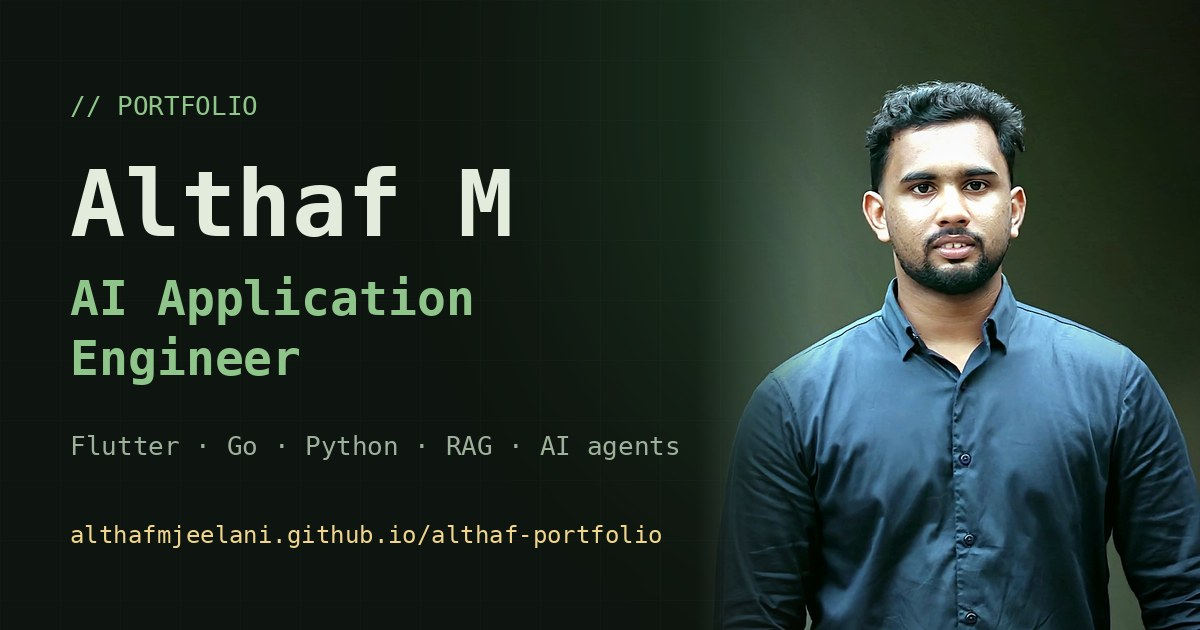
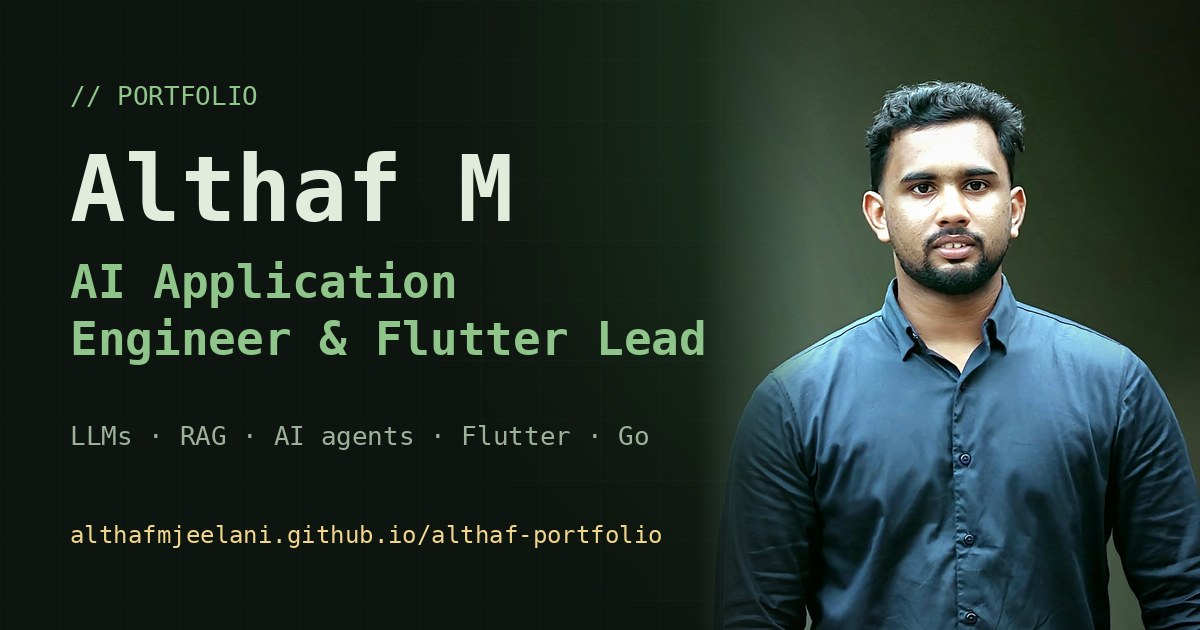
feat(site): retitle as AI Application Engineer & Flutter Lead with new summary
Claude-Session: https://claude.ai/code/session_012Xn4Q7hUZq6czKaUf6FZZm

diff --git a/site/index.html b/site/index.html
@@ -3,8 +3,8 @@
 <head>
 <meta charset="utf-8">
 <meta name="viewport" content="width=device-width, initial-scale=1, viewport-fit=cover">
-<title>Althaf M · AI Application Engineer</title>
-<meta name="description" content="Althaf M — AI application engineer with a Flutter and mobile background, at Texol World. Apps, backend, data, cloud and AI.">
+<title>Althaf M · AI Application Engineer &amp; Flutter Lead</title>
+<meta name="description" content="Althaf M — AI Application Engineer &amp; Flutter Lead with 4+ years of experience, specializing in cross-platform apps and integrating LLMs to build intelligent products.">
 <link rel="preconnect" href="https://fonts.googleapis.com">
 <link rel="preconnect" href="https://fonts.gstatic.com" crossorigin>
 <link rel="stylesheet" href="https://fonts.googleapis.com/css2?family=Martian+Mono:wdth,wght@87.5..112.5,300..800&family=Instrument+Sans:wght@400;500;600;700&family=JetBrains+Mono:wght@400;500;700&display=swap">
@@ -585,14 +585,14 @@ dialog.sheet[open]{animation:pop .35s cubic-bezier(.2,.7,.1,1)}
 <meta property="og:locale" content="en_IN">
 <meta property="og:image:width" content="1200">
 <meta property="og:image:height" content="630">
-<meta property="og:image:alt" content="Althaf M, AI application engineer">
-<meta name="twitter:title" content="Althaf M · AI Application Engineer">
-<meta name="twitter:description" content="AI application engineer with a Flutter and mobile background. Apps, backend, data, cloud and AI, at Texol World, Kozhikode.">
-<meta name="twitter:image" content="https://althafmjeelani.github.io/althaf-portfolio/assets/images/og.jpg?v=2">
+<meta property="og:image:alt" content="Althaf M, AI Application Engineer and Flutter Lead">
+<meta name="twitter:title" content="Althaf M · AI Application Engineer &amp; Flutter Lead">
+<meta name="twitter:description" content="4+ years of experience, specializing in cross-platform apps and integrating LLMs to build intelligent products. Texol World, Kozhikode.">
+<meta name="twitter:image" content="https://althafmjeelani.github.io/althaf-portfolio/assets/images/og.jpg?v=3">
 <link rel="manifest" href="manifest.webmanifest">
 <meta name="theme-color" media="(prefers-color-scheme: dark)" content="#0E140F">
 <link rel="preload" as="image" href="assets/images/profile.jpg?v=2">
-<script type="application/ld+json">{"@context": "https://schema.org", "@graph": [{"@type": "Person", "@id": "https://althafmjeelani.github.io/althaf-portfolio/#me", "name": "Althaf M", "jobTitle": "AI Application Engineer", "url": "https://althafmjeelani.github.io/althaf-portfolio/", "image": "https://althafmjeelani.github.io/althaf-portfolio/assets/images/profile.jpg", "email": "mailto:althafmdev@gmail.com", "address": {"@type": "PostalAddress", "addressLocality": "Kozhikode", "addressRegion": "Kerala", "addressCountry": "IN"}, "worksFor": {"@type": "Organization", "name": "Texol World"}, "alumniOf": {"@type": "CollegeOrUniversity", "name": "MET Arts and Science College, Calicut University"}, "knowsAbout": ["Flutter", "Dart", "Go", "Python", "TypeScript", "React", "REST APIs", "PostgreSQL", "LLM", "Retrieval-Augmented Generation", "AI agents", "AWS", "Docker", "Kubernetes", "Data engineering", "CI/CD"], "knowsLanguage": ["English", "Malayalam", "Hindi", "Tamil"], "sameAs": ["https://linkedin.com/in/althafm2002", "https://github.com/AlthafMjeelani"]}, {"@type": "WebSite", "@id": "https://althafmjeelani.github.io/althaf-portfolio/#site", "url": "https://althafmjeelani.github.io/althaf-portfolio/", "name": "Althaf M · AI Application Engineer", "author": {"@id": "https://althafmjeelani.github.io/althaf-portfolio/#me"}, "inLanguage": "en"}]}</script>
+<script type="application/ld+json">{"@context": "https://schema.org", "@graph": [{"@type": "Person", "@id": "https://althafmjeelani.github.io/althaf-portfolio/#me", "name": "Althaf M", "jobTitle": "AI Application Engineer and Flutter Lead", "url": "https://althafmjeelani.github.io/althaf-portfolio/", "image": "https://althafmjeelani.github.io/althaf-portfolio/assets/images/profile.jpg", "email": "mailto:althafmdev@gmail.com", "address": {"@type": "PostalAddress", "addressLocality": "Kozhikode", "addressRegion": "Kerala", "addressCountry": "IN"}, "worksFor": {"@type": "Organization", "name": "Texol World"}, "alumniOf": {"@type": "CollegeOrUniversity", "name": "MET Arts and Science College, Calicut University"}, "knowsAbout": ["Flutter", "Dart", "Go", "Python", "TypeScript", "React", "REST APIs", "PostgreSQL", "LLM", "Retrieval-Augmented Generation", "AI agents", "AWS", "Docker", "Kubernetes", "Data engineering", "CI/CD"], "knowsLanguage": ["English", "Malayalam", "Hindi", "Tamil"], "sameAs": ["https://linkedin.com/in/althafm2002", "https://github.com/AlthafMjeelani"]}, {"@type": "WebSite", "@id": "https://althafmjeelani.github.io/althaf-portfolio/#site", "url": "https://althafmjeelani.github.io/althaf-portfolio/", "name": "Althaf M · AI Application Engineer", "author": {"@id": "https://althafmjeelani.github.io/althaf-portfolio/#me"}, "inLanguage": "en"}]}</script>
 <script>
 /* Analytics: paste a Google Analytics 4 ID (G-XXXXXXX) to turn it on. Leave empty for none. */
 window.SITE_ANALYTICS_ID='';
@@ -602,9 +602,9 @@ window.SITE_ANALYTICS_ID='';
 
 <meta name="author" content="Althaf M">
 <meta property="og:type" content="website">
-<meta property="og:title" content="Althaf M · AI Application Engineer">
-<meta property="og:description" content="AI application engineer with a Flutter and mobile background. Apps, backend, data, cloud and AI, at Texol World, Kozhikode.">
-<meta property="og:image" content="https://althafmjeelani.github.io/althaf-portfolio/assets/images/og.jpg?v=2">
+<meta property="og:title" content="Althaf M · AI Application Engineer &amp; Flutter Lead">
+<meta property="og:description" content="4+ years of experience, specializing in cross-platform apps and integrating LLMs to build intelligent products. Texol World, Kozhikode.">
+<meta property="og:image" content="https://althafmjeelani.github.io/althaf-portfolio/assets/images/og.jpg?v=3">
 <meta property="og:url" content="https://althafmjeelani.github.io/althaf-portfolio/">
 <meta name="twitter:card" content="summary_large_image">
 <link rel="icon" href="favicon.ico" sizes="any">
@@ -661,10 +661,10 @@ window.SITE_ANALYTICS_ID='';
         <div class="avatar"><img src="assets/images/profile.jpg?v=2" alt="Photo of Althaf M" width="116" height="116"></div>
       </div>
       </div>
-      <p class="sys">System: <b>AI Application Engineer</b></p>
+      <p class="sys">System: <b>AI Application Engineer &amp; Flutter Lead</b></p>
       <h1 id="title" aria-label="Althaf M">Althaf M</h1>
       <p class="roles-line" aria-live="off">I build <b id="roleTxt">mobile apps</b><i aria-hidden="true"></i></p>
-      <p class="lede">I am an AI application engineer with a Flutter and mobile development background: from web and mobile apps to APIs, data platforms, AI agents and secure cloud infrastructure, I design and ship the whole product with AI built in. Thirteen products and 15+ apps shipped since 2022. I lead the engineering team at Texol World and live in Kozhikode, Kerala.</p>
+      <p class="lede">AI Application Engineer &amp; Flutter Lead with 4+ years of experience. I specialize in cross-platform development and integrating LLMs to build intelligent apps: from web and mobile apps to APIs, data platforms, AI agents and secure cloud infrastructure, I design and ship the whole product with AI built in. Thirteen products and 15+ apps shipped since 2022. I lead the engineering team at Texol World and live in Kozhikode, Kerala.</p>
       <div class="ctas">
         <a class="btn primary mag" href="#projects">$ open projects</a>
         <a class="btn ghost" href="#skills">view skills</a>
@@ -792,7 +792,7 @@ window.SITE_ANALYTICS_ID='';
       <div class="win dark reveal glow" id="wTerm">
         <div class="win-bar"><i></i><i></i><i></i><span class="ttl">althaf@texol: ~ — zsh</span></div>
         <div class="term" id="term"><span class="p">$</span> whoami
-<span class="o">althaf m — ai application engineer @ texol world</span>
+<span class="o">althaf m — ai application engineer &amp; flutter lead @ texol world</span>
 <span class="p">$</span> <span class="cur"></span></div>
       </div>
       <div class="win reveal" id="wDash">
@@ -1020,7 +1020,7 @@ window.SITE_ANALYTICS_ID='';
       <div class="win dark reveal" id="timeline" style="margin-top:18px">
         <div class="win-bar"><i></i><i></i><i></i><span class="ttl">~/career — history</span></div>
         <div class="hist"><ol>
-          <li><span class="n">04</span><span><span class="w">AI Application Engineer</span> · Texol World, Calicut</span><span class="x">Jan 2024 – now · top contributor to the Vanforces app (~1,900 commits) and React admin (826); Go backend since 2026; CI/CD with GitHub Actions</span></li>
+          <li><span class="n">04</span><span><span class="w">AI Application Engineer &amp; Flutter Lead</span> · Texol World, Calicut</span><span class="x">Jan 2024 – now · top contributor to the Vanforces app (~1,900 commits) and React admin (826); Go backend since 2026; CI/CD with GitHub Actions</span></li>
           <li><span class="n">03</span><span><span class="w">Flutter Developer</span> · BigWelt Infotech, Bangalore</span><span class="x">Dec 2022 – Dec 2023 · cross-platform apps with optimised state management, with backend and UI/UX teams</span></li>
           <li><span class="n">02</span><span><span class="w">Flutter Developer Intern</span> · Brototype, Calicut</span><span class="x">May – Dec 2022 · client projects end to end; state management, performance and deployment</span></li>
           <li><span class="n">01</span><span><span class="w">BCA</span> · MET Arts and Science College, Nadapuram</span><span class="x">Jun 2019 – Mar 2022 · Calicut University</span></li>

diff --git a/tools/resume/build_resume.py b/tools/resume/build_resume.py
@@ -25,11 +25,11 @@ def bullets(items): return ListFlowable([ListItem(Paragraph(i,bul),leftIndent=10
 def entry(left,right,items):
     return KeepTogether([Paragraph(f'{left} <font color="#444444">| {right}</font>',role),bullets(items)])
 S=[]
-S+= [Paragraph('ALTHAF M',name),Paragraph('AI Application Engineer',title),
+S+= [Paragraph('ALTHAF M',name),Paragraph('AI Application Engineer &amp; Flutter Lead',title),
      Paragraph('Kozhikode, Kerala, India | +91 8086689184 | '+L('mailto:althafmdev@gmail.com','althafmdev@gmail.com'),contact),
      Paragraph('LinkedIn: '+L('https://linkedin.com/in/althafm2002','linkedin.com/in/althafm2002')+' | GitHub: '+L('https://github.com/AlthafMjeelani','github.com/AlthafMjeelani')+' | Portfolio: '+L('https://althafmjeelani.github.io/althaf-portfolio/','althafmjeelani.github.io/althaf-portfolio'),contact)]
 S+=sec('Professional Summary')
-S.append(Paragraph('AI Application Engineer with a Flutter and mobile development background and 4+ years of experience designing, building and shipping production software across mobile, web, backend, cloud and AI, integrating LLMs, RAG and AI agents into real products. Delivered 13 products and 15+ apps on iOS, Android and web, including offline-first sales platforms, multi-tenant SaaS, multi-app service marketplaces, ERP and HR systems, fintech apps and multi-agent AI tools. Leads the engineering team at Texol World, owning architecture, CI/CD and releases. Experienced in Flutter, Go, Python, REST APIs, SQL and NoSQL databases, AWS, Docker, and LLM features using RAG and AI agents.',body))
+S.append(Paragraph('AI Application Engineer &amp; Flutter Lead with 4+ years of experience. Specializes in cross-platform development and integrating LLMs to build intelligent apps, shipping production software across web, backend, cloud and AI, with RAG and AI agents in real products. Delivered 13 products and 15+ apps on iOS, Android and web, including offline-first sales platforms, multi-tenant SaaS, multi-app service marketplaces, ERP and HR systems, fintech apps and multi-agent AI tools. Leads the engineering team at Texol World, owning architecture, CI/CD and releases. Experienced in Flutter, Go, Python, REST APIs, SQL and NoSQL databases, AWS, Docker, and LLM features using RAG and AI agents.',body))
 S+=sec('Technical Skills')
 sk=[('Languages','Dart, Go (Golang), Python, TypeScript, JavaScript, Kotlin, SQL'),
 ('Mobile &amp; Frontend','Flutter, iOS, Android, React, Next.js, Provider, Bloc, Riverpod, Clean Architecture, MVVM, Platform Channels, Responsive UI, Figma'),
@@ -43,7 +43,7 @@ sk=[('Languages','Dart, Go (Golang), Python, TypeScript, JavaScript, Kotlin, SQL
 ('Practices','Agile/Scrum, Code Review, Unit &amp; Integration Testing, Debugging, Performance Optimization, Team Leadership')]
 for k,v in sk: S.append(Paragraph(f'<b>{k}:</b> {v}',ParagraphStyle('sk',parent=body,spaceAfter=1.5)))
 S+=sec('Professional Experience')
-S.append(entry('<b>AI Application Engineer</b>','Texol World, Kozhikode, Kerala | Jan 2024 – Present',[
+S.append(entry('<b>AI Application Engineer &amp; Flutter Lead</b>','Texol World, Kozhikode, Kerala | Jan 2024 – Present',[
 'Lead the engineering team across mobile, web, backend, cloud and AI, owning the full lifecycle from analysis and architecture to deployment.',
 'Built Entaura, an enterprise data and policy intelligence platform (Ask, Insight, Watch) with Python/FastAPI, React, ClickHouse, Qdrant, RAG and AI agents.',
 'Top contributor to Vanforces, a route-to-market SaaS: about 1,900 commits on the offline-first Flutter app since Jan 2024 and 826 on the React admin portal, plus Go backend work (Gin, MySQL, Redis).',
@@ -94,5 +94,5 @@ S.append(bullets(['Employee of the Month at Texol World, awarded multiple times 
 S+=sec('Languages')
 S.append(Paragraph('English, Malayalam, Hindi, Tamil',body))
 doc=SimpleDocTemplate(out,pagesize=A4,leftMargin=16*mm,rightMargin=16*mm,topMargin=12*mm,bottomMargin=12*mm,
-  title='Althaf M - AI Application Engineer - Resume',author='Althaf M',subject='Resume',keywords='AI Application Engineer, Full-Stack Engineer, Flutter, Mobile, AI Integration, LLM, Flutter, Go, Python, AWS, RAG, AI')
+  title='Althaf M - AI Application Engineer and Flutter Lead - Resume',author='Althaf M',subject='Resume',keywords='AI Application Engineer, Flutter Lead, Full-Stack Engineer, AI Integration, LLM, Flutter, Go, Python, AWS, RAG, AI')
 doc.build(S)

diff --git a/README.md b/README.md
@@ -1,6 +1,6 @@
 <div align="center">
 
-<a href="https://althafmjeelani.github.io/althaf-portfolio/"><img src="site/assets/images/og.jpg" alt="Althaf M, AI Application Engineer" width="720"></a>
+<a href="https://althafmjeelani.github.io/althaf-portfolio/"><img src="site/assets/images/og.jpg" alt="Althaf M, AI Application Engineer and Flutter Lead" width="720"></a>
 
 # Althaf M · Portfolio
 
@@ -15,7 +15,7 @@
 
 ---
 
-Personal portfolio of **Althaf M**, AI Application Engineer (Flutter and mobile background) at Texol World, Kozhikode.
+Personal portfolio of **Althaf M**, AI Application Engineer & Flutter Lead at Texol World, Kozhikode.
 
 **Live:** https://althafmjeelani.github.io/althaf-portfolio/
 

diff --git a/docs/FEATURES.md b/docs/FEATURES.md
@@ -22,7 +22,7 @@ What visitors see and can do on https://althafmjeelani.github.io/althaf-portfoli
 
 - Profile photo inside two orbiting rings of skill chips.
 - Floating code cards beside the photo on desktop (`new Engineer({...})`, a `git commit` / deploy terminal).
-- "SYSTEM: AI APPLICATION ENGINEER" with a drawn underline.
+- "SYSTEM: AI APPLICATION ENGINEER & FLUTTER LEAD" with a drawn underline.
 - Name revealed letter by letter, then a looping green glint.
 - "I build …" line that types and deletes: mobile apps, web platforms, REST & Go APIs, data pipelines, RAG search, AI agents, cloud infrastructure.
 - Buttons: open projects, view skills, download resume. Scroll cue.

diff --git a/CLAUDE.md b/CLAUDE.md
@@ -4,7 +4,7 @@ Guidance for Claude Code and other AI agents working in this repository.
 
 ## What this repo is
 
-The personal portfolio of **Althaf M, AI Application Engineer, Flutter and mobile background** (Texol World, Kozhikode).
+The personal portfolio of **Althaf M, AI Application Engineer & Flutter Lead** (Texol World, Kozhikode).
 
 - **Live site:** https://althafmjeelani.github.io/althaf-portfolio/
 - **Current site:** `site/`, a static single page (HTML, CSS, vanilla JS) with no build step.
